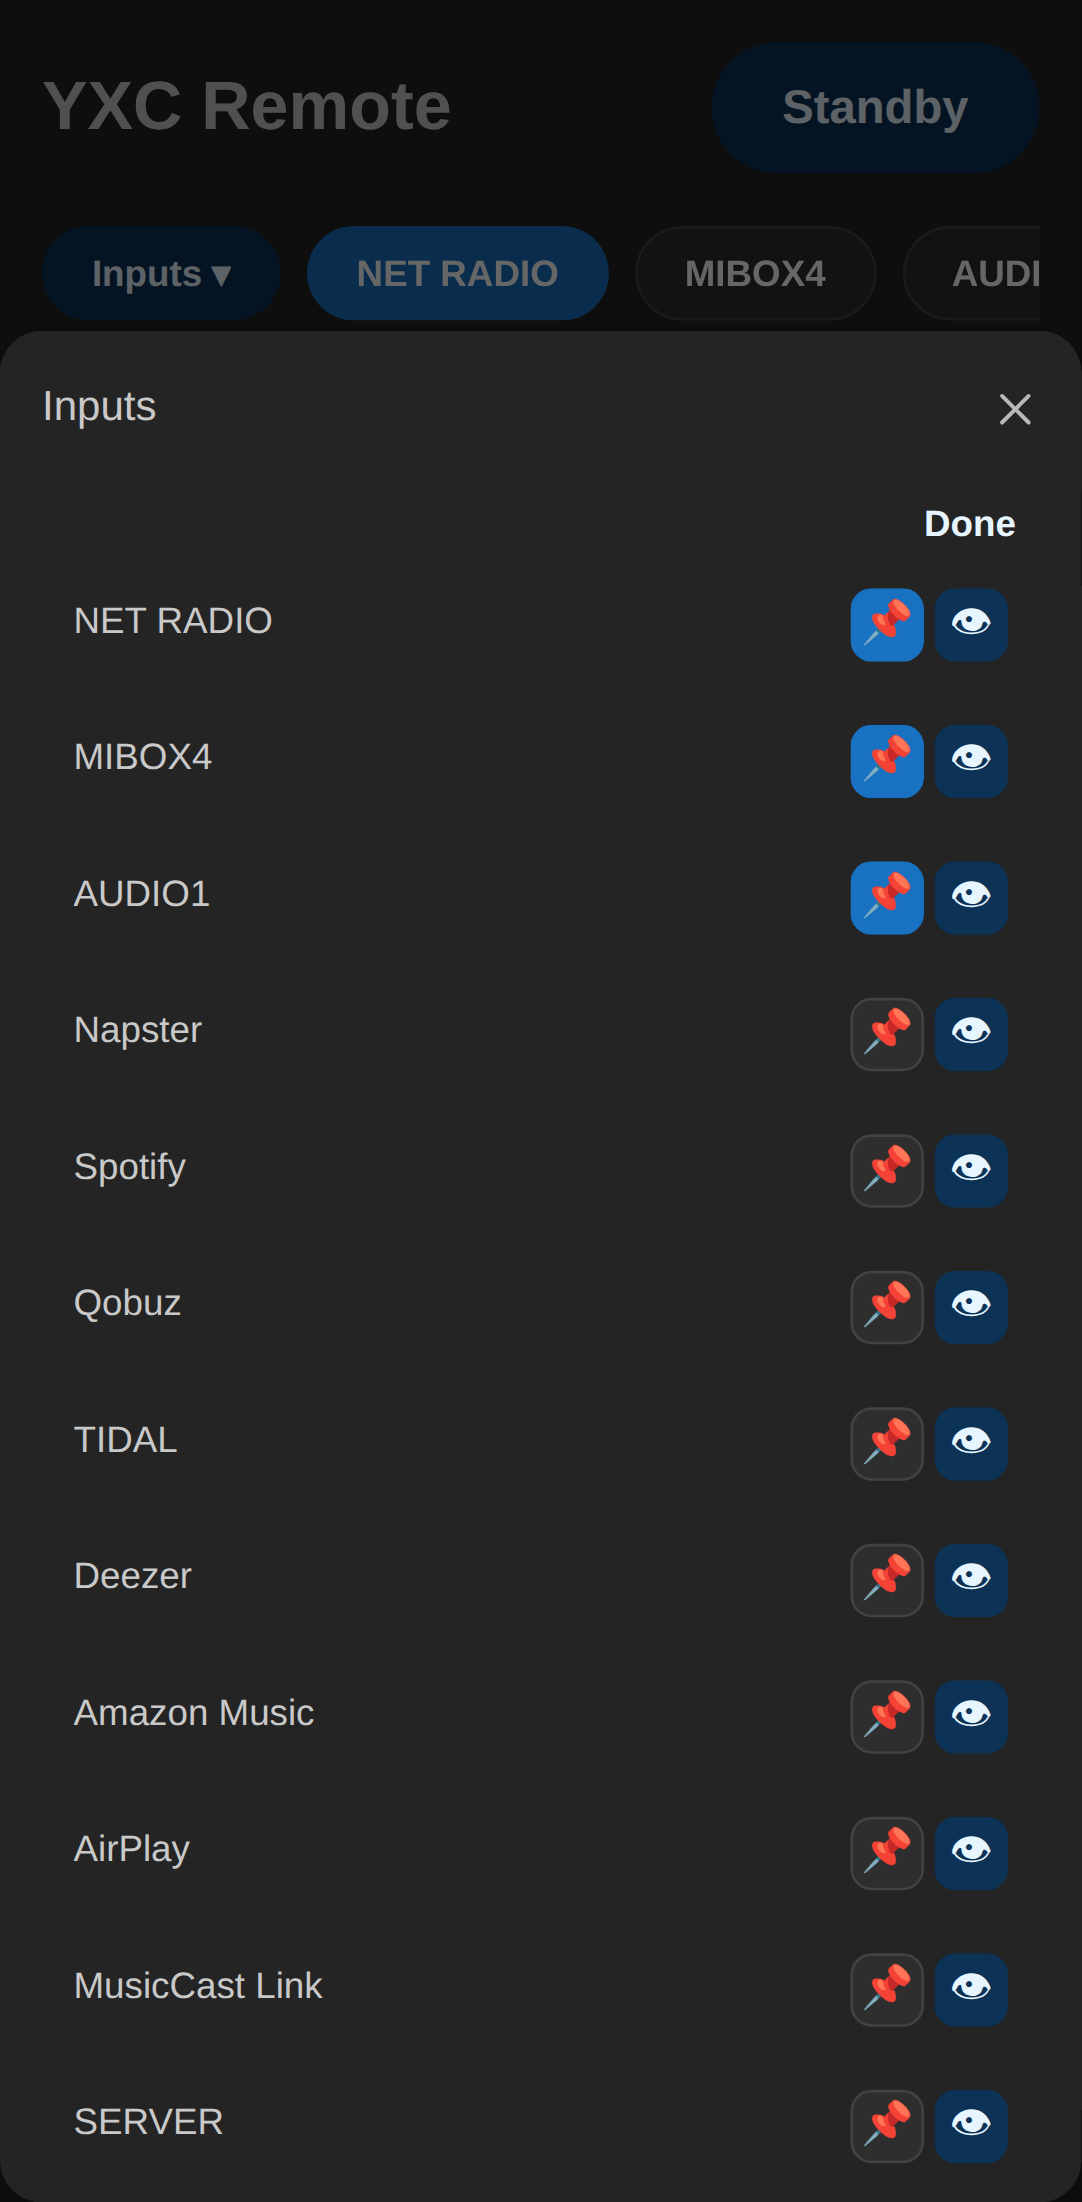
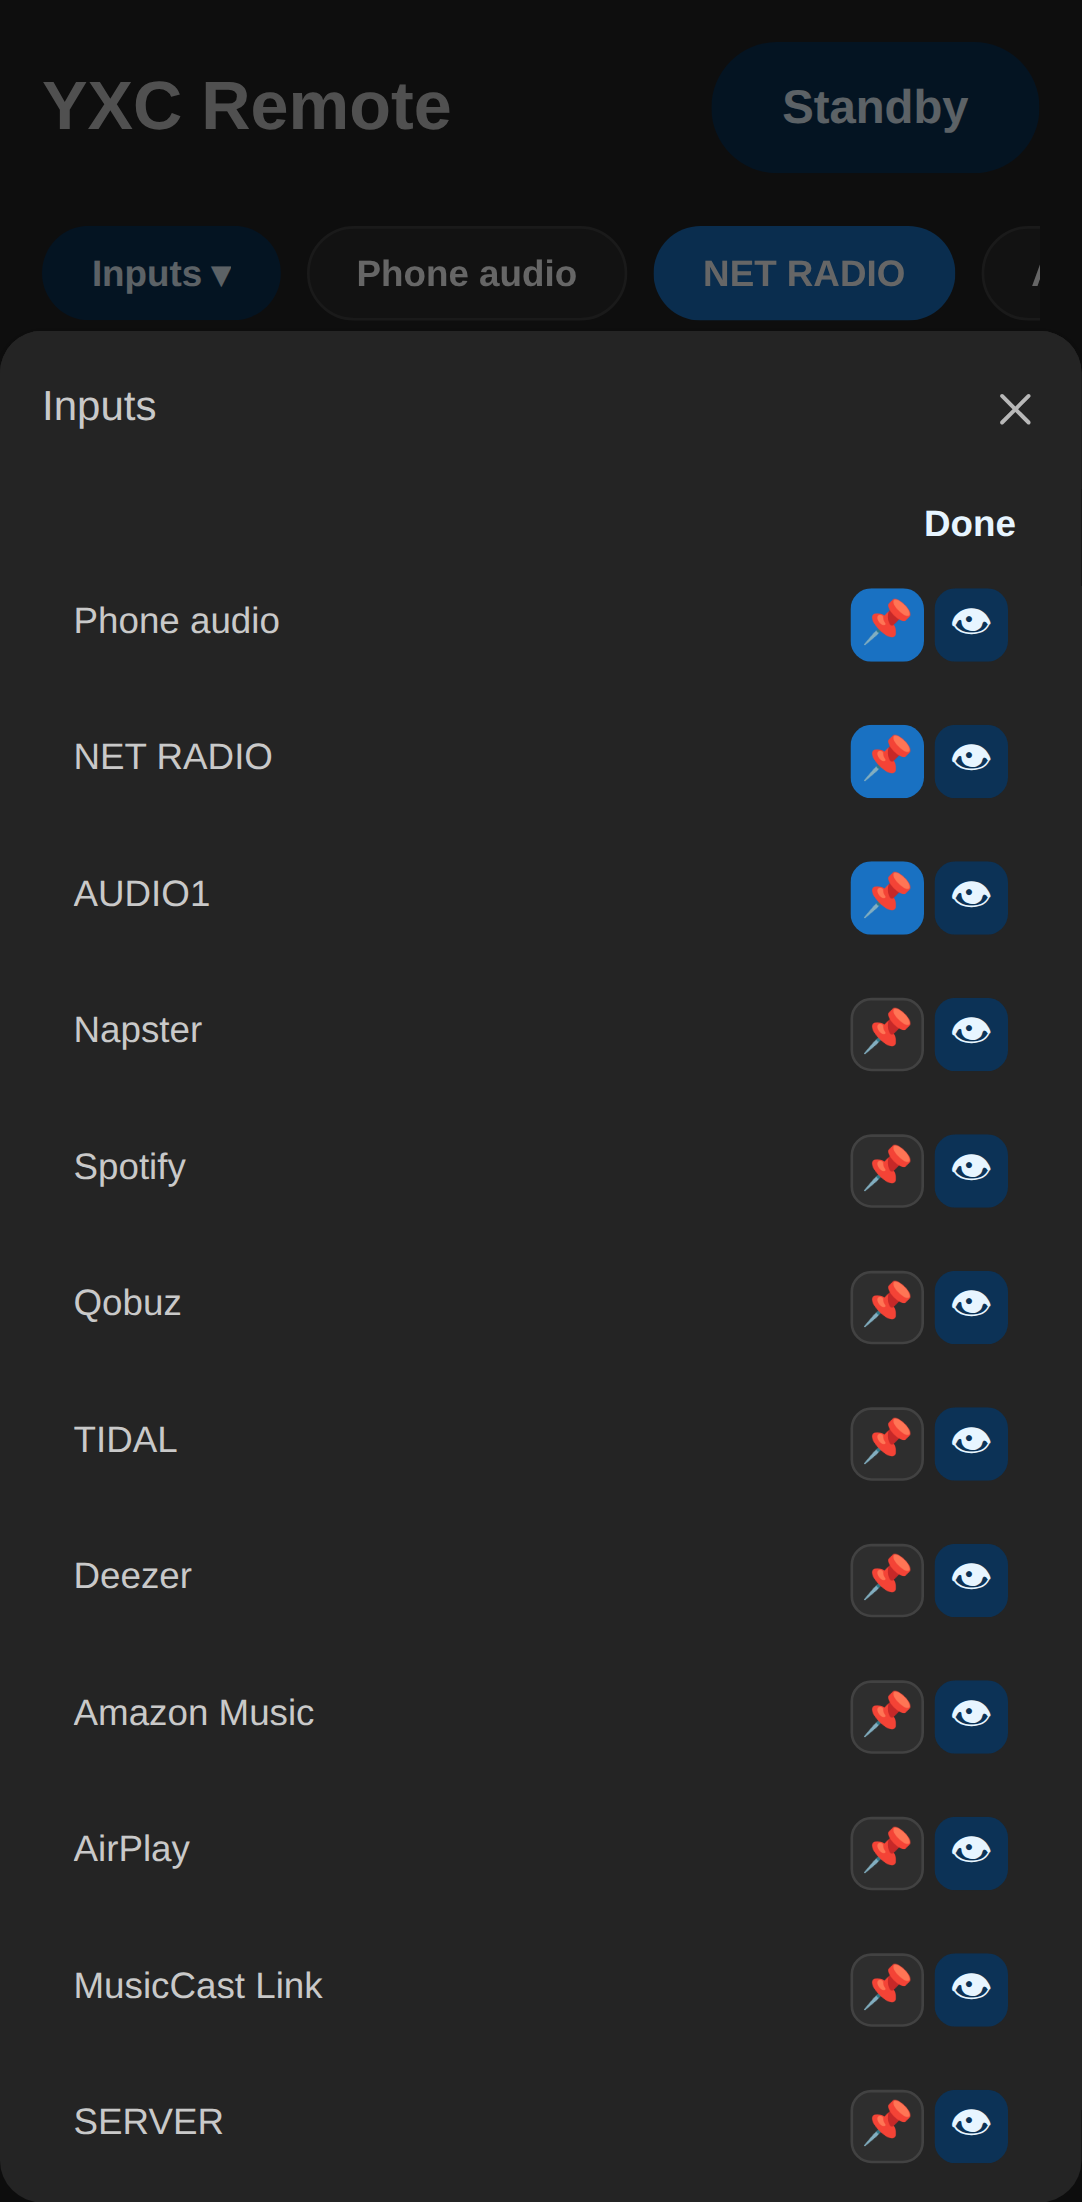
README screenshots show casting
- Showcase: dev-only ?demo-cast mode simulates casting against the fake receiver
- inputs.png with "Phone audio" pinned, new cast.png (explanation), demo GIF ends with a cast

diff --git a/app/src/yxc.ts b/app/src/yxc.ts
@@ -33,11 +33,16 @@ export const mediaUpdate = (state: MediaState) => (inTauri ? invoke("media_updat
 // Cast what the device plays to the receiver: Android 10+ audio capture, or PipeWire on Linux (see IMPLEMENTATION.md)
 const android = /Android (\d+)/.exec(navigator.userAgent);
 // Android asks to share the screen first, unless PROJECT_MEDIA was granted over adb (IMPLEMENTATION.md)
-export const castConsentNeeded = () => (inTauri ? invoke<boolean>("cast_consent_needed") : Promise.resolve(false));
-export const castAvailable = inTauri && (android ? Number(android[1]) >= 10 : /Linux/.test(navigator.userAgent));
-// Also the track title the receiver shows while we cast (the artist is the device name)
+// ponytail: dev-only demo for `npm run showcase` (?demo-cast): casting in a plain browser, against the fake receiver
+const demoCast = import.meta.env.DEV && new URLSearchParams(location.search).has("demo-cast");
+export const castConsentNeeded = () => (inTauri ? invoke<boolean>("cast_consent_needed") : Promise.resolve(demoCast));
+export const castAvailable = demoCast || (inTauri && (android ? Number(android[1]) >= 10 : /Linux/.test(navigator.userAgent)));
+// Also the artist the receiver shows while we cast (the title is the device name)
 export const CAST_TITLE = android ? "Phone audio" : "Computer audio";
-export const cast = (on: boolean, rx: string) => invoke("cast", { on, rx });
+export const cast = (on: boolean, rx: string) =>
+  demoCast
+    ? fetch(`/demo/cast?on=${on}`).then(() => void dispatchEvent(new CustomEvent("demo-cast-state", { detail: on })))
+    : invoke("cast", { on, rx });
 // Shown as one more input; it isn't a receiver input (the receiver sees it as "server")
 export const CAST_INPUT: Input = { id: "phone_cast", name: CAST_TITLE, playInfoType: "none" };
 
@@ -76,7 +81,12 @@ export const onReceiverEvent = (cb: () => void) => (inTauri ? listen("yxc-event"
 // Casting failed on the Rust side (receiver unreachable, …): src-tauri/src/cast.rs
 export const onCastError = (cb: (e: string) => void) => (inTauri ? listen<string>("cast-error", (e) => cb(e.payload)) : Promise.resolve(() => {}));
 // true while the receiver plays this device's stream; false once it stops or moves to anything else
-export const onCastState = (cb: (playing: boolean) => void) => (inTauri ? listen<boolean>("cast-state", (e) => cb(e.payload)) : Promise.resolve(() => {}));
+export const onCastState = (cb: (playing: boolean) => void) => {
+  if (inTauri) return listen<boolean>("cast-state", (e) => cb(e.payload));
+  const h = (e: Event) => cb((e as CustomEvent<boolean>).detail); // demo-cast
+  addEventListener("demo-cast-state", h);
+  return Promise.resolve(() => removeEventListener("demo-cast-state", h));
+};
 
 async function yxc<T>(path: string): Promise<T> {
   const port = await eventsPort;

diff --git a/app/showcase/showcase.spec.ts b/app/showcase/showcase.spec.ts
@@ -64,6 +64,14 @@ async function fakeReceiver(page: Page) {
       default: return json(ok);
     }
   });
+  // the app's dev-only ?demo-cast mode: "casting" makes the receiver play our stream, as the real one does
+  await page.route("**/demo/cast**", (route) => {
+    if (new URL(route.request().url()).searchParams.get("on") === "true") {
+      Object.assign(status, { input: "server", input_text: nameOf("server") });
+      Object.assign(play, { input: "server", track: "Pixel 7", artist: "Phone audio", album: "", albumart_url: "", playback: "play" });
+    }
+    return route.fulfill({ contentType: "application/json", body: "{}" });
+  });
   const svg = (route: import("@playwright/test").Route) =>
     route.fulfill({ contentType: "image/svg+xml", body: art(Number(route.request().url().match(/(\d+)\.svg/)?.[1] ?? 1)) });
   await page.route("**/YamahaRemoteControl/**", svg);
@@ -74,7 +82,7 @@ const beat = (page: Page, ms = 1200) => page.waitForTimeout(ms);
 
 test("showcase", async ({ page }) => {
   await fakeReceiver(page);
-  await page.goto("/");
+  await page.goto("/?demo-cast");
   await expect(page.getByTestId("track")).toContainText("Siraba");
   await beat(page, 1500);
   await page.screenshot({ path: `${MEDIA}/now-playing.png` });
@@ -112,7 +120,7 @@ test("showcase", async ({ page }) => {
   const sheet = page.getByRole("dialog", { name: "Inputs" });
   await beat(page, 800);
   await sheet.getByRole("button", { name: "Edit" }).click();
-  for (const name of ["AUDIO1", "MIBOX4", "NET RADIO"]) {
+  for (const name of ["Phone audio", "AUDIO1", "NET RADIO"]) {
     await sheet.getByRole("button", { name: `Pin ${name}`, exact: true }).click();
     await beat(page, 400);
   }
@@ -127,4 +135,12 @@ test("showcase", async ({ page }) => {
   await beat(page, 1500);
   await page.getByRole("button", { name: "NET RADIO", exact: true }).click();
   await beat(page, 2000);
+
+  // cast the phone's audio: short explanation, then Android's own prompt (not in a browser)
+  await page.getByRole("button", { name: "Phone audio", exact: true }).click();
+  await beat(page);
+  await page.screenshot({ path: `${MEDIA}/cast.png` });
+  await page.getByRole("button", { name: "Continue" }).click();
+  await expect(page.getByTestId("track")).toContainText("Pixel 7");
+  await beat(page, 2500);
 });

diff --git a/app/src/App.tsx b/app/src/App.tsx
@@ -142,12 +142,12 @@ export default function App() {
     ...recents.filter((r) => !favorites.some((f) => f.text === r.text)).map((r) => ({ ...r, recall: () => recallRecent(r.num) })),
   ].slice(0, QUICK_STATIONS);
 
-  const allInputs = castAvailable && receiver ? [CAST_INPUT, ...inputs] : inputs; // first: the feature the official app lacks
+  const allInputs = castAvailable && ready ? [CAST_INPUT, ...inputs] : inputs; // first: the feature the official app lacks
   const pinnedInputs = allInputs.filter((i) => pinned.includes(i.id));
   const startCast = () => {
     setSheet(null);
     setCastError(null);
-    act(() => cast(true, receiver!.ip));
+    act(() => cast(true, receiver?.ip ?? "")); // no receiver object in a browser (Vite proxy)
   };
   const choose = (id: string) =>
     id !== CAST_INPUT.id

diff --git a/README.md b/README.md
@@ -5,13 +5,14 @@ It can also play whatever your phone or computer is playing on the receiver.
 Unofficial, not affiliated with Yamaha. Tested with the HTR-4072.
 
 <p align="center">
-  <img src="docs/media/demo.gif" alt="Demo: volume, mute, one-tap stations, stations list, pinned inputs" width="300">
+  <img src="docs/media/demo.gif" alt="Demo: volume, mute, one-tap stations, stations list, pinned inputs, casting the phone's audio" width="300">
 </p>
 
 <p align="center">
   <img src="docs/media/now-playing.png" alt="Now playing" width="220">
   <img src="docs/media/stations.png" alt="Stations: favorites and recently played" width="220">
   <img src="docs/media/inputs.png" alt="Inputs: pin the ones you use, hide the rest" width="220">
+  <img src="docs/media/cast.png" alt="Cast phone audio: what Android will ask" width="220">
 </p>
 
 <sub>Recorded against a simulated receiver (`npm run showcase`); album art is a placeholder.</sub>
